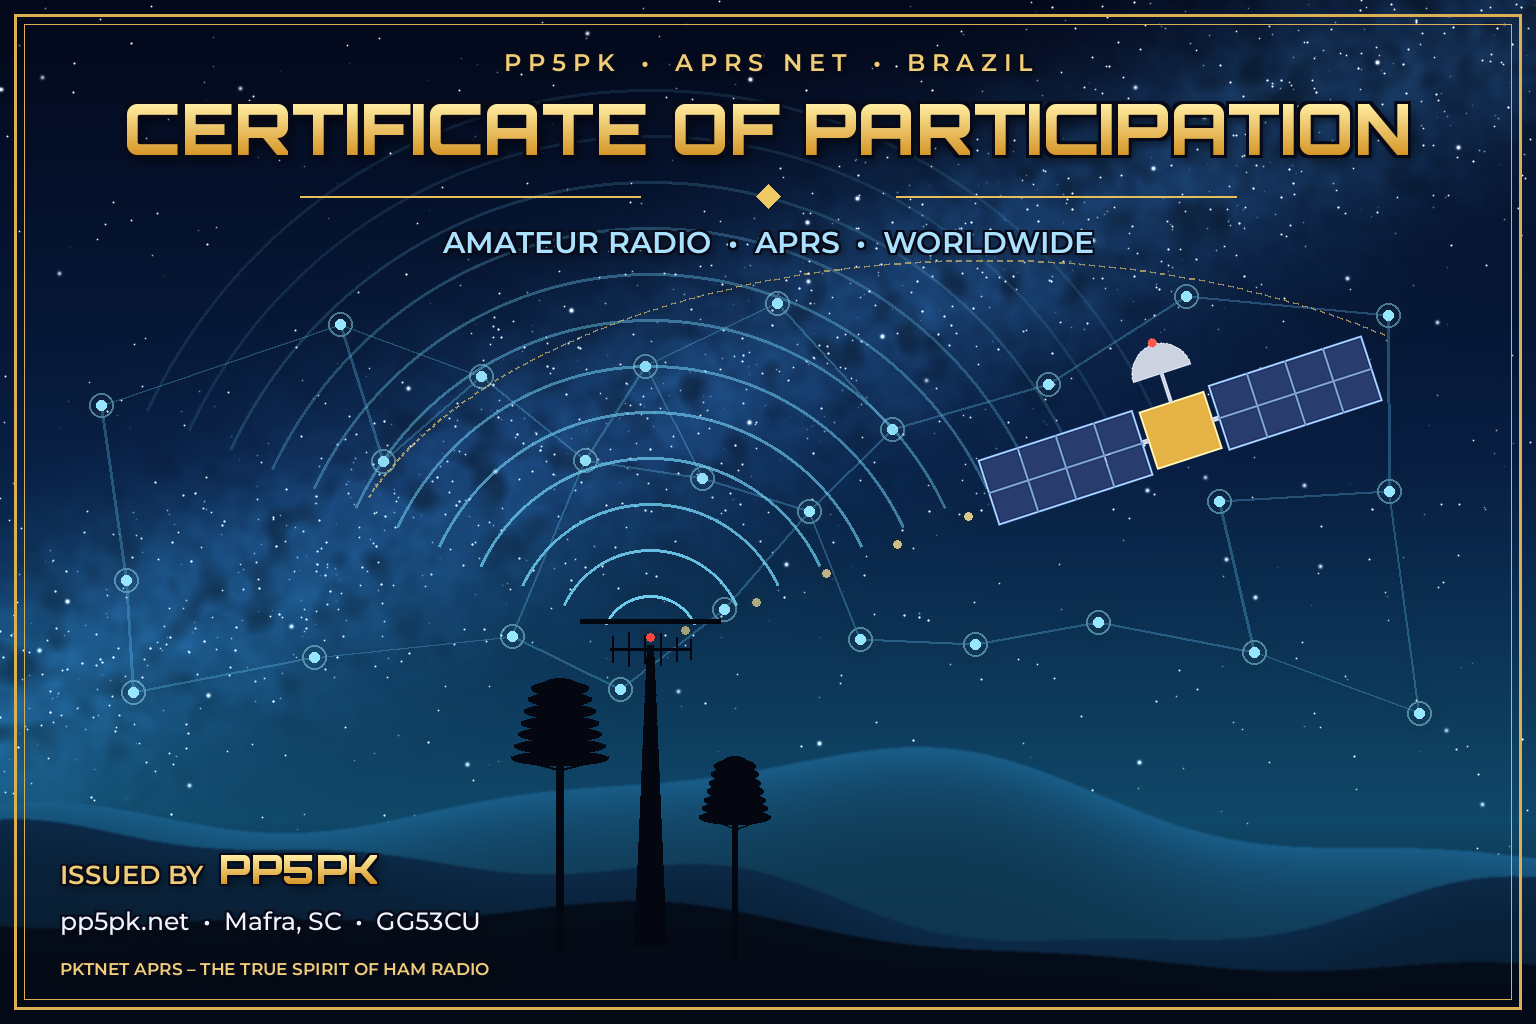
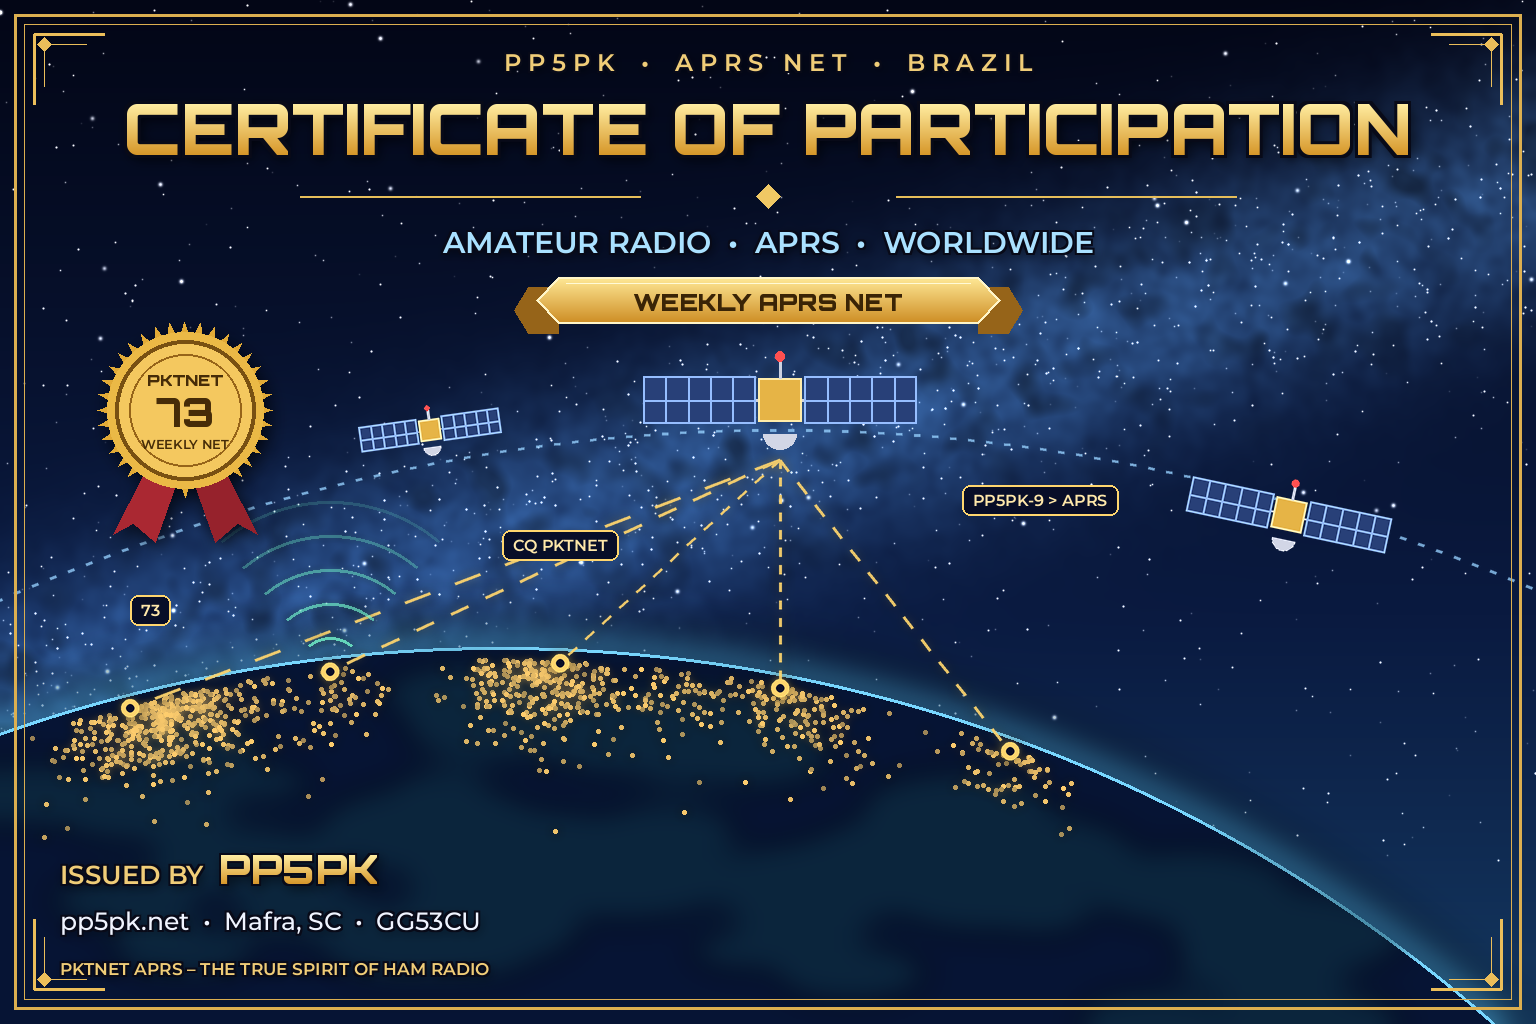
Templates: replace series with weekly Nov-Dec 2026 designs, renumber to 1-6
Drop the old #01-#06 and #07 templates; the weekly series (Full Moon/
Thanksgiving, Advent/Volunteers, Aviation, Geminids, Christmas, New Year)
becomes pktnet_template_1..6.png. Refresh the generic fallback template
and update the event-id examples in README and pktnet.conf.example.

Claude-Session: https://claude.ai/code/session_017TaSaXFUQuyonK4rEBNeds

diff --git a/README.md b/README.md
@@ -315,7 +315,7 @@ contains your passcode.
 | `cert` | `dir` | `/var/lib/pktnet/certs` | Folder for generated PDFs, `users.db` and the CSV. |
 | `cert` | `users_db` | `.../certs/users.db` | Read-only name database `users(callsign, name, city_state)`. |
 | `cert` | `template` | `.../certs/pktnet_template.png` | Certificate background design the data is drawn onto. |
-| `cert` | `templates_dir` | `.../certs/templates` | Optional per-event templates: `pktnet_template_<event_id>.png` (e.g. `pktnet_template_25.png` for event #25) overrides `template` for that event's certificates; events without a file use `template`. Chosen when the certificate is generated. |
+| `cert` | `templates_dir` | `.../certs/templates` | Optional per-event templates: `pktnet_template_<event_id>.png` (e.g. `pktnet_template_1.png` for event #1) overrides `template` for that event's certificates; events without a file use `template`. Chosen when the certificate is generated. |
 | `cert` | `flow_timeout_min` | `15` | Drop an unfinished certificate conversation after N minutes. |
 | `cert` | `resend_min` | `5` | If the operator goes quiet mid-flow, resend the last prompt after N minutes (a lost message shouldn't cost the certificate). |
 | `email` | `enable` | `false` | Email the generated PDF over SMTP (needs the keys below). |
